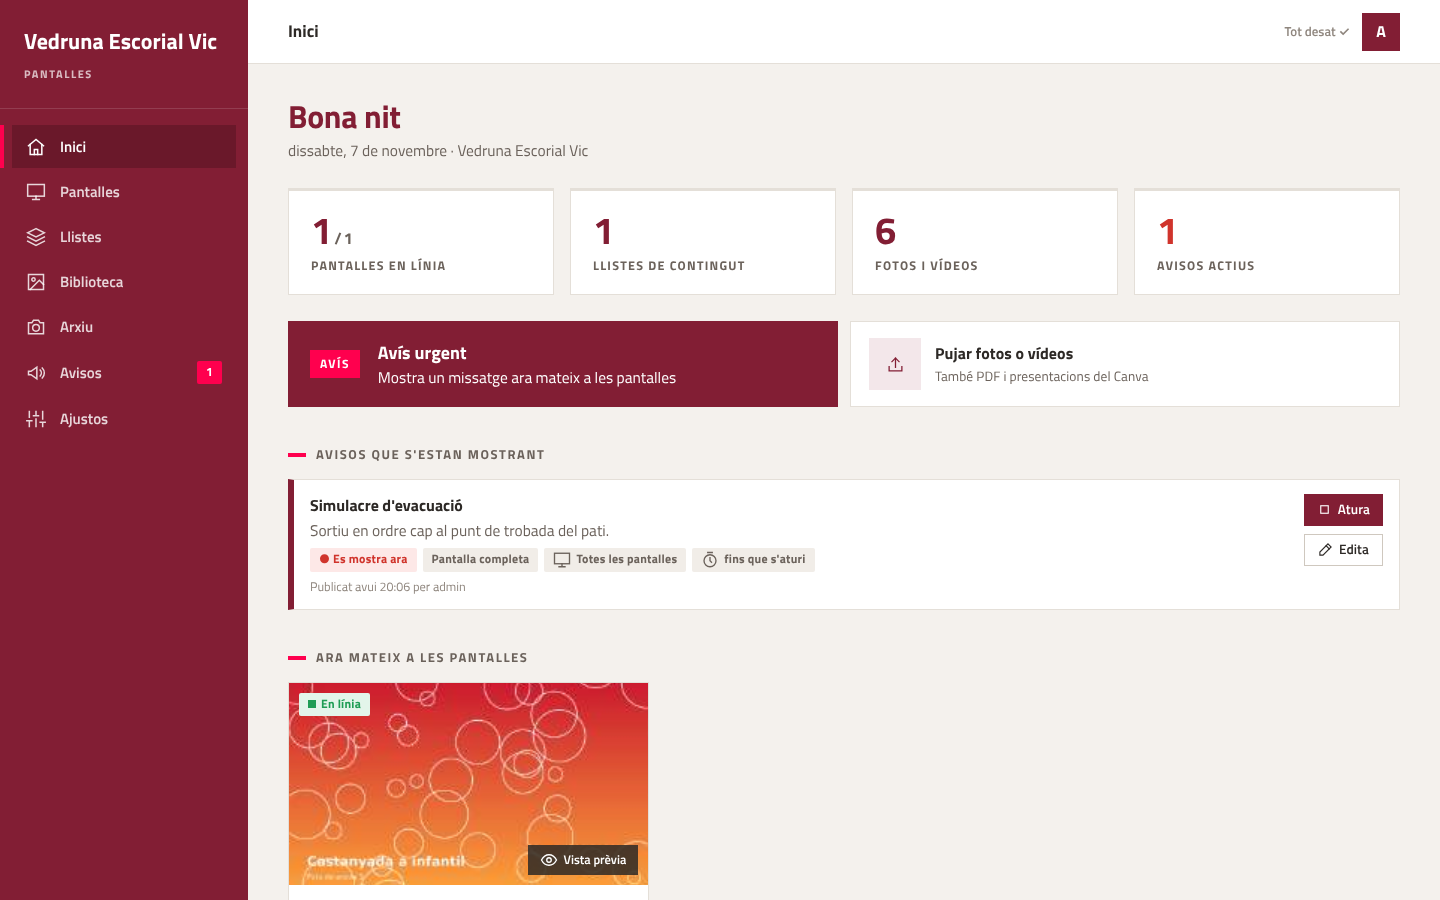
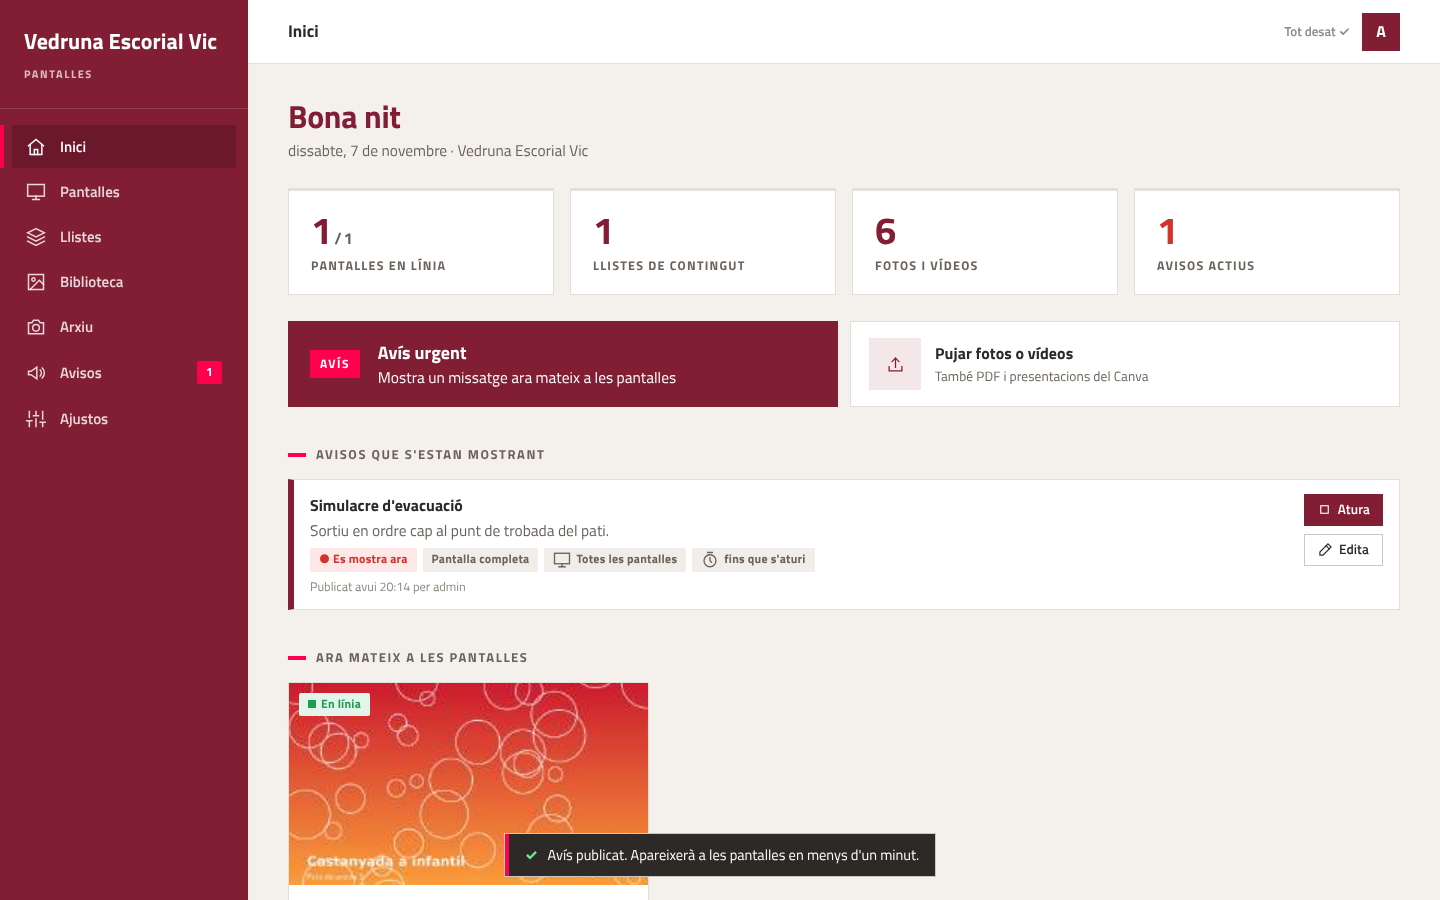
«Foto amb text»: les fotos horitzontals tornen a ocupar tota la pantalla sota el bloc granat
Automàtic segons la forma de la foto: horitzontal a tota la pantalla,
vertical només a la meitat dreta. A l'editor es pot triar a mà.

Claude-Session: https://claude.ai/code/session_01X8vwkzjFFoknxysTtiBFhw

Changed region(s): [[0.3438, 0.9022, 0.6562, 0.9956]]

diff --git a/panell/panell.js b/panell/panell.js
@@ -1254,6 +1254,8 @@
         '<div class="camp" data-nomes="foto">Foto de fons<div class="btns"><span data-fons-nom class="subtil">' + (t.bgMediaId ? esc((troba(S.d.media, t.bgMediaId) || {}).name || '') : 'Cap (cal triar-ne una)') + '</span>' +
         '<button type="button" class="btn petit" data-tria-fons>Tria…</button></div></div>' +
         '<label class="camp" data-nomes="foto">Enquadrament de la foto <span class="ajuda">Quina part es veu quan s\'ha de retallar.</span><select data-t="focus">' + '<option value="">Centre</option><option value="top"' + (t.focus === 'top' ? ' selected' : '') + '>A dalt (caps i cares)</option><option value="bottom"' + (t.focus === 'bottom' ? ' selected' : '') + '>A baix</option>' + '</select></label>' +
+        '<label class="camp" data-nomes="foto">On va la foto<select data-t="fotoMode"><option value="">Automàtic (horitzontal a tota la pantalla, vertical a la dreta)</option>' +
+        '<option value="ample"' + (t.fotoMode === 'ample' ? ' selected' : '') + '>A tota la pantalla, sota el bloc granat</option><option value="dreta"' + (t.fotoMode === 'dreta' ? ' selected' : '') + '>Només a la meitat dreta</option></select></label>' +
         '<div class="fila"><label class="camp" data-nomes="granat paper">Alineació<select data-t="align"><option value="left"' + (t.align !== 'center' ? ' selected' : '') + '>A l\'esquerra</option><option value="center"' + (t.align === 'center' ? ' selected' : '') + '>Centrat</option></select></label>' +
         '<label class="camp">Mida de la lletra<input type="range" min="60" max="160" step="10" data-t="size" value="' + (t.size || 100) + '"></label></div>';
     }
@@ -1414,7 +1416,11 @@
     if (!caixa) return;
     var id = null, w = 1920, h = 1080;
     if (c.kind === 'media') id = c.mediaId;
-    if (c.kind === 'text' && c.text && c.text.template === 'foto') { id = c.text.bgMediaId; w = 960; }
+    if (c.kind === 'text' && c.text && c.text.template === 'foto') {
+      id = c.text.bgMediaId;
+      var ample = c.text.fotoMode === 'ample' || (c.text.fotoMode !== 'dreta' && Pnt.diapo.esHoritzontal(ctxPanell(), id));
+      w = ample ? 1920 : 960;
+    }
     var m = id ? troba(S.d.media, id) : null;
     if (!m || m.kind !== 'image' || !m.w || !m.h || (c.kind === 'media' && c.fit === 'contain')) { caixa.hidden = true; return; }
     var amplia = Math.max(w / m.w, h / m.h);
@@ -1428,6 +1434,7 @@
     return {
       ara: araServidor,
       urlMitja: function (id) { return S.thumbs[id] || null; },
+      metaMitja: function (id) { return troba(S.d.media, id); },
       logo: { color: S.logos.color || null, neg: S.logos.neg || null },
       escola: (S.d && S.d.settings.schoolName) || 'Vedruna Escorial Vic'
     };

diff --git a/comu/diapos.js b/comu/diapos.js
@@ -91,6 +91,10 @@
       var f = el('div', 'dp-foto');
       f.style.backgroundImage = 'url("' + ctx.urlMitja(t.bgMediaId) + '")';
       f.style.backgroundPosition = D.posicio(t.focus);
+      // Foto horitzontal: a tota la pantalla, amb el bloc granat a sobre.
+      // Foto vertical: només a la meitat dreta (així no s'ha d'ampliar tant).
+      var ample = t.fotoMode === 'ample' || (t.fotoMode !== 'dreta' && D.esHoritzontal(ctx, t.bgMediaId));
+      if (ample) n.classList.add('dp-foto-ample');
       n.appendChild(f);
       var panell = el('div', 'dp-panell');
       panell.appendChild(blocText(t, k, { titol: 9.5, text: 4.6 }));
@@ -248,6 +252,13 @@
     g.style.gridTemplateColumns = 'repeat(' + files[0].split(' ').length + ', 1fr)';
     g.style.gridTemplateRows = 'repeat(' + files.length + ', 1fr)';
   }
+
+  /** Diu si una foto és horitzontal (si no se'n sap la mida, ho suposem). */
+  D.esHoritzontal = function (ctx, id) {
+    var m = ctx && ctx.metaMitja ? ctx.metaMitja(id) : null;
+    if (!m || !m.w || !m.h) return true;
+    return m.w / m.h >= 1.15;
+  };
 
   /** Enquadrament: quina part de la foto es veu quan s'ha de retallar. */
   D.posicio = function (focus) { return focus === 'top' ? 'center 18%' : focus === 'bottom' ? 'center 82%' : 'center center'; };

diff --git a/eines/mostrari.html b/eines/mostrari.html
@@ -32,7 +32,7 @@
     clock: { kind: 'clock', text: { title: 'Bon dia' } },
     countdown: { kind: 'countdown', text: { label: 'Compte enrere', title: 'Festival de Nadal', date: d, time: '18:00' } }
   };
-  var ctx = { ara: function () { return Date.now(); }, urlMitja: function () { return foto; }, logo: { color: q.get('logo') || null, neg: q.get('logoneg') || null }, escola: 'Vedruna Escorial Vic' };
+  var ctx = { ara: function () { return Date.now(); }, urlMitja: function () { return foto; }, metaMitja: function () { return q.get('fw') ? { w: +q.get('fw'), h: +q.get('fh') } : null; }, logo: { color: q.get('logo') || null, neg: q.get('logoneg') || null }, escola: 'Vedruna Escorial Vic' };
   if (p === 'peu') {
     c.style.background = 'url("' + foto + '") center/cover';
     Pnt.diapo.escala(c, w, h);

diff --git a/comu/diapos.css b/comu/diapos.css
@@ -93,7 +93,9 @@
 .dp-vertical { padding: 16em 9em 22em 9em; }
 .dp-vertical.dp-centrat { padding-left: 9em; padding-right: 9em; }
 .dp-vertical .dp-tall { width: 22em; height: 22em; }
+.dp-t-foto.dp-foto-ample .dp-foto { left: 0; }
 .dp-vertical .dp-foto { left: 0; bottom: 62%; }
+.dp-vertical.dp-foto-ample .dp-foto { bottom: 0; }
 .dp-vertical .dp-panell { top: auto; width: 100%; height: 62%; padding: 9em 9em 19em; clip-path: polygon(0 0, 100% 0, 100% 100%, 0 100%); }
 .dp-vertical .dp-data-col { right: 0; width: auto; bottom: auto; height: 40%; clip-path: polygon(0 0, 100% 0, 100% calc(100% - 22em), calc(100% - 22em) 100%, 0 100%); }
 .dp-vertical .dp-esdev-cos { left: 0; top: 40%; }

diff --git a/pantalla/pantalla.js b/pantalla/pantalla.js
@@ -524,6 +524,7 @@
     return {
       ara: ara,
       urlMitja: function (id) { return urls[id] || null; },
+      metaMitja: function (id) { return config && config.media[id]; },
       logo: { color: logoUrl(false), neg: logoUrl(true) },
       escola: (config && config.settings.schoolName) || 'Vedruna Escorial Vic'
     };
